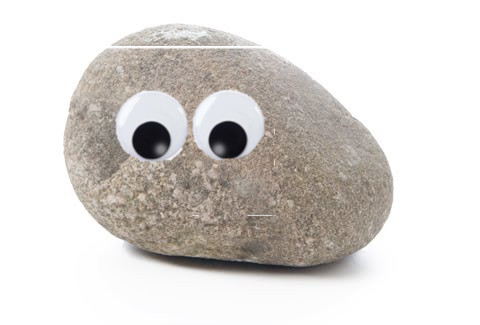
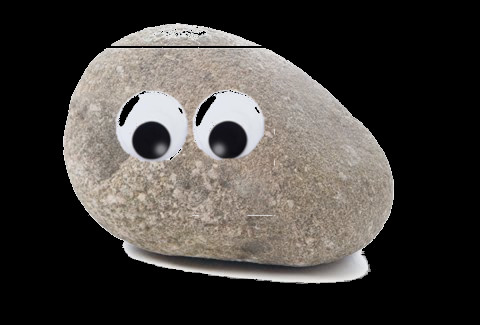
hi

diff --git a/web/index.html b/web/index.html
@@ -10,8 +10,15 @@
 </head>
 
 <body >
-    <div style="margin:auto;">
-        <img src="../images/rock.jpg" style='width:600px; margin:auto;'>  
+    <div style="width:95%; height:95%; top:2.5%; left:2.5%; position:fixed; border-style:solid; border-color:#aa8644; border-weight:3px;">
+        <h1 style="position:fixed; left:10%; top:10%;">The life of <span class='gold'> Rockie </span> </h1>
+        <img src="../images/rock.png" style='width:600px; position:fixed; top:40%; left:10%; '>  
+
+        <div>
+           
+
+
+        </div>
     </div>
 </body>
 </html>

diff --git a/web/stylesheet.css b/web/stylesheet.css
@@ -1,6 +1,14 @@
 h1, h3 {
-    color: #182e56;
+    color: #606060;
+    text-transform:uppercase; 
+    font-weight:bold;
 }
+
+body {
+    color:#494b4f;
+    font-family: Arial, Helvetica, sans-serif;
+    background-color:#f7f7f7;
+}   
 
 h3 {
     font-size:30px;
@@ -14,4 +22,9 @@ h1 {
 h2 {
     color:white;
     font-size:40px;
+}
+
+.gold {
+    color: #aa8644;
+    font-style:italic;
 }
